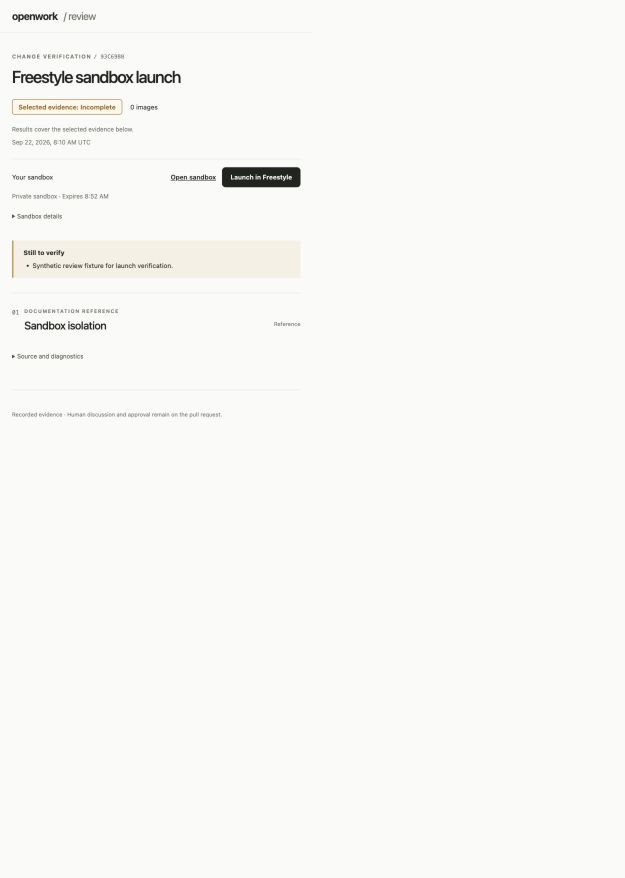
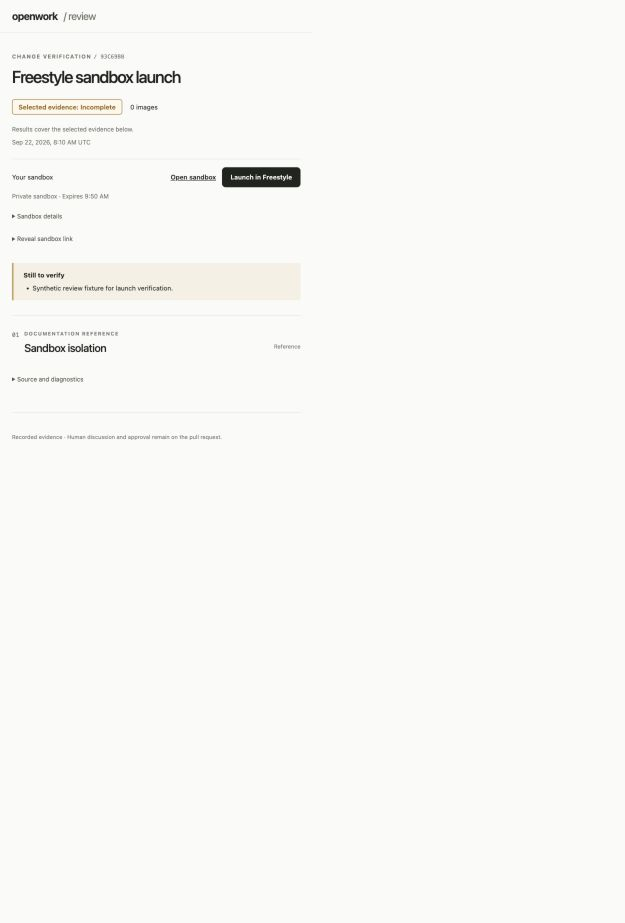
feat(review): reveal sandbox links and publish launch proof

diff --git a/evals/specs/freestyle-review.e2e.test.ts b/evals/specs/freestyle-review.e2e.test.ts
@@ -1,0 +1,33 @@
+import { expect } from "vitest";
+import { test } from "@openwork/testkit";
+import { reviewWorld } from "../worlds/evidence-review.ts";
+
+test("reviewers see Freestyle scope and recoverable setup without exposing sandbox access", async ({ evidence }) => {
+  await using world = await reviewWorld();
+  const page = await fetch(`${world.baseUrl}/r/${world.passed}`);
+  expect(page.status).toBe(200);
+  const html = await page.text();
+  expect(html).toContain("Launch in Freestyle");
+  expect(html).toContain("Freestyle is not connected");
+  expect(html).toContain("Sandbox details");
+  expect(html).toContain("OpenWork web app and its local engine");
+  expect(html).not.toContain("__openwork_launch?token=");
+  evidence.recordAssertionEvidence(
+    "A review offers a scoped Freestyle preview with an honest disconnected state",
+    "The production review page keeps Launch in Freestyle visible, names the missing connection and owner, explains the OpenWork web scope in collapsed details, and contains no sandbox access link before launch.",
+    true,
+  );
+
+  const endpoint = `${world.baseUrl}/r/${world.passed}/launch`;
+  const disconnected = await fetch(endpoint, { method: "POST", headers: { origin: world.baseUrl } });
+  expect(disconnected.status).toBe(503);
+  expect(disconnected.headers.get("cache-control")).toContain("no-store");
+  expect(await disconnected.json()).toEqual({ error: "Freestyle is not connected. The review app owner can configure it." });
+  const crossSite = await fetch(endpoint, { method: "POST", headers: { origin: "https://unrelated.example" } });
+  expect(crossSite.status).toBe(403);
+  evidence.recordAssertionEvidence(
+    "Unavailable and cross-site launches cannot allocate a sandbox",
+    "A same-origin launch without credentials returns an actionable 503 with no-store caching; a third-party origin returns 403. This proof uses no provider credentials and does not claim a live Freestyle launch.",
+    true,
+  );
+});

diff --git a/apps/review/components/launch-preview.tsx b/apps/review/components/launch-preview.tsx
@@ -47,8 +47,13 @@ export function LaunchPreview({ id, connected }: { id: string; connected: boolea
       </p>
       <details className="preview-details">
         <summary>Sandbox details</summary>
-        <p>Each launch restores this commit’s snapshot into a separate sandbox. The first launch for a commit can take several minutes. Sandboxes are deleted after two hours; work is not saved.</p>
+        <p>This preview runs the OpenWork web app and its local engine. Each launch restores this commit’s snapshot into a separate sandbox. The first launch for a commit can take several minutes. Sandboxes are deleted after two hours; work is not saved.</p>
       </details>
+      {session && <details className="preview-details">
+        <summary>Reveal sandbox link</summary>
+        <p>Anyone with this link can access your sandbox until it expires.</p>
+        <code style={{ overflowWrap: "anywhere", userSelect: "all" }}>{session.url}</code>
+      </details>}
     </div>
   );
 }

diff --git a/evals/worlds/evidence-review.ts b/evals/worlds/evidence-review.ts
@@ -198,6 +198,8 @@ export async function reviewWorld(
       cwd: join(root, "apps/review"),
       env: {
         ...process.env,
+        // This isolated HTTP fixture must never inherit live sandbox access.
+        FREESTYLE_API_KEY: "",
         OPENWORK_REVIEW_LOCAL_DIR: storage,
         VERCEL: "1",
         VERCEL_ENV: environment,
